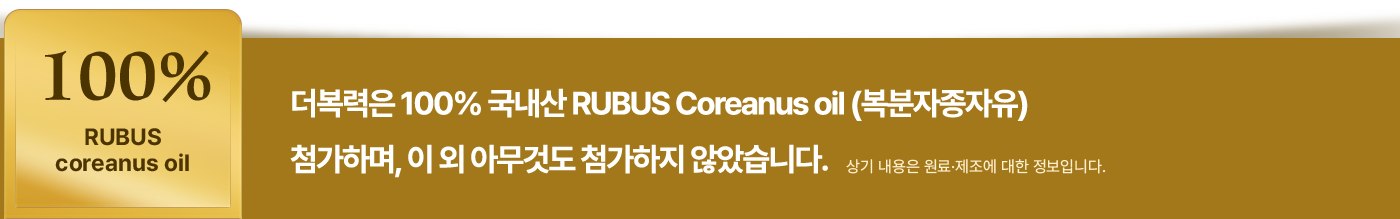
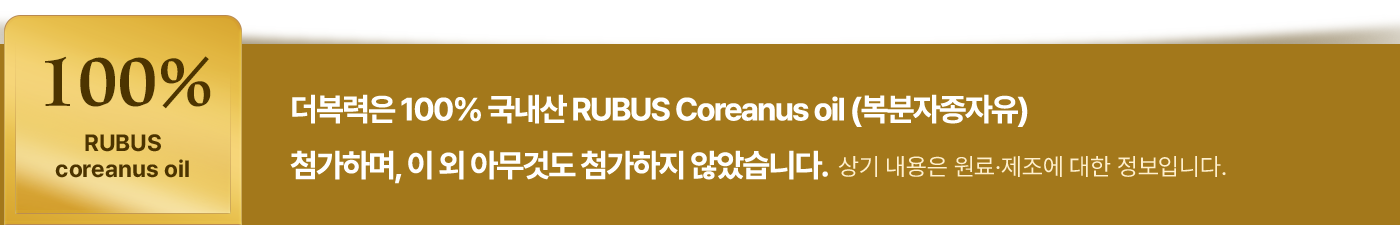
수정사항 반영

diff --git a/css/power.css b/css/power.css
@@ -97,6 +97,12 @@ em, span, i, label{font-size:inherit; color:inherit; font-weight:inherit; letter
   }
 }
 
+@media screen and (max-width:1140px) {
+  :root {
+    --flex-font-size: 18px;
+  }
+}
+
 @media screen and (max-width:768px) {
   :root {
     --max-width: 768px;
@@ -109,7 +115,7 @@ em, span, i, label{font-size:inherit; color:inherit; font-weight:inherit; letter
   :root {
     --px-large : 40px; 
     --side-padding : 20px;
-    --flex-font-size: 14px;
+    --flex-font-size: 13px;
   }
 }
 
@@ -124,8 +130,8 @@ em, span, i, label{font-size:inherit; color:inherit; font-weight:inherit; letter
 /* sec01 */
 .sec-cont01 {aspect-ratio: 1918 / 1207; background: url(../images/sec01_bg_start.jpg) no-repeat center bottom / cover; }
 .sec-cont01 .sec-inner {height: 100%; padding:calc(0.05 * 100%) 0;}
-.sec01-title {display: block; width: 100%; max-width: calc(100% * .3); margin:0 auto;}
-.sec01-text {opacity: 0; position: absolute; bottom:calc(100% * 0.08); left:50%; transform: translateX(-50%); display: block; width: 100%; max-width: calc(100% * .35);}
+.sec01-title {display: block; width: 33%; max-width: 453px; margin:0 auto;}
+.sec01-text {opacity: 0; position: absolute; bottom:calc(100% * 0.08); left:50%; transform: translateX(-50%); display: block; width: 37.5%; max-width: 526px;}
 .sec-cont01[data-scroll="in"] {animation: bgShow 1.5s forwards;}
 
 @keyframes bgShow {
@@ -147,14 +153,14 @@ em, span, i, label{font-size:inherit; color:inherit; font-weight:inherit; letter
 /* sec02 */
 .sec-cont02 {background: #060000 url(../images/sec02_bg.jpg) no-repeat center / cover;}
 .sec-cont02 .sec-inner {padding-bottom: calc(0.13 * 100%);}
-.sec02-title {display: block; width: 80%; max-width: 850px; margin:0 auto calc(100% * .11);}
-.sec02-list > li {position: relative; display: flex; align-items: center; justify-content: center; aspect-ratio: 1280 / 300;}
-.sec02-list > li img {position: absolute; transform: translateX(-70%); max-width: calc(100% * 0.36);}
-.sec02-list > li strong {color:#fff; font-size: var(--flex-font-size);}
-.sec02-list > li p {position: absolute; left: 55%; color:#fff; font-size: var(--flex-font-size); white-space: nowrap; font-weight: 300;}
-.sec02-list > li:nth-child(2) img {transform: translateX(70%);}
-.sec02-list > li:nth-child(2) p {left:45%; translate:-100%;}
-.sec02-list > li:nth-child(3) p {translate:0 25%}
+.sec02-title {display: block; width: 80%; max-width: 918px; margin:0 auto calc(100% * .11);}
+.sec02-list {width: 100%; margin:0 auto;}
+.sec02-list > li {position: relative; display: flex; align-items: center; justify-content: center; gap:5%; aspect-ratio: 1280 / 300;}
+.sec02-list > li img {max-width: calc(100% * 0.36);}
+.sec02-list > li strong {color:#fff; font-size: var(--flex-font-size); line-height: 1.4;}
+.sec02-list > li p {color:#fff; font-size: var(--flex-font-size); font-weight: 300; word-break: keep-all;}
+.sec02-list > li:nth-child(2) p {text-align: right;}
+.sec02-text {display: flex; gap:10px}
 
 
 .sec-point {display: block; width: 27%; max-width: 287px; margin:0 auto calc(100% * .04)}
@@ -162,17 +168,20 @@ em, span, i, label{font-size:inherit; color:inherit; font-weight:inherit; letter
 /* sec03 */ 
 .sec-cont03 {background: #6c0c15;}
 .sec03-title {display: block; width: 55%; max-width: 1262px; margin:0 auto;}
+.sec03-img {width: 100%;}
 
 /* sec04 */
 .sec-cont04 {position: relative; background: url(../images/sec04_bg.jpg) no-repeat center 0 / cover;}
-.sec-cont04::before {position: absolute; bottom:0; content: ''; display: block; width: 100%; height:181px; background-color: #a3781b ;}
+.sec-cont04::before {position: absolute; bottom:0; content: ''; display: block; width: 100%; height:178px; background-color: #a3781b ;}
 .sec-cont04 .sec-inner {height: 100%; padding:calc(100% * .07) 0 0;}
 .sec04-title {display: block; width: 55%; max-width: 725px; margin:0 auto calc(100% * 0.03);}
 .sec04-img {display: block; width: 100%; max-width: 1120px; margin:0 auto; border-radius: 10px;}
 .sec04-bottom {position: relative; left:50%; translate:-50%; display: block; width: 100%; max-width: 1960px; height: 219px; margin-top:calc(100% * -.05); background: url(../images/sec04_bottom.png) no-repeat center / cover;}
-@media screen and (max-width:1400px) {
-  .sec-cont04 {background: url(../images/sec04_bg_mo.jpg) no-repeat center / cover;}
+@media screen and (max-width:1959px) {
   .sec-cont04::before {display: none;}
+}
+@media screen and (max-width:1400px) {
+  .sec-cont04 {background: url(../images/sec04_bg_mo.jpg) no-repeat center / cover;}  
   .sec04-img {max-width: 80%;}
   .sec04-bottom {aspect-ratio: 1400 / 219; height: auto; background: url(../images/sec04_bottom_mo.png) no-repeat center / cover;}
 }
@@ -184,7 +193,7 @@ em, span, i, label{font-size:inherit; color:inherit; font-weight:inherit; letter
 .sec05-imgs {display: flex; width: 90%; max-width: 990px; margin:0 auto calc(100% * .08);}
 .sec05-imgs > img {display: block; width: 41%; margin:0 -3.5%;}
 .sec05-text {display: block; width: 65%; max-width: 531px; margin:0 auto calc(100% * .06);}
-.sec05-bottom {display: block; width: 100%; max-width: 827px; margin:0 auto;}
+.sec05-bottom {display: block; width: 100%; max-width: 927px; margin:0 auto;}
 @media screen and (max-width:1400px) {
   .sec-cont05 {background: #000000 url(../images/sec05_bg_mo.jpg) no-repeat center / cover;}
 }
@@ -201,7 +210,7 @@ em, span, i, label{font-size:inherit; color:inherit; font-weight:inherit; letter
 .sec06-texts .txt-4 {bottom:-15%; left:0;}
 .sec06-texts .txt-5 {bottom:-15%; right:0;}
 .sec06_bottom {display: flex; align-items: center; justify-content: center; height:calc(.09 * 100%); background-color: #b69041;}
-.sec06_bottom .sec06-text {display: inline-block; width: 40%; max-width: 400px;}
+.sec06_bottom .sec06-text {display: inline-block; width: 90%; max-width: 1148px;}
 @media screen and (max-width:1400px) {
   .sec-cont06 {aspect-ratio: 1400 / 1276; background: url(../images/sec06_bg_mo.jpg) no-repeat center / cover;}  
   .sec06-texts > p {font-size: calc(100vw * .025);}

diff --git a/html/power.html b/html/power.html
@@ -33,29 +33,35 @@
     <section class="sec-cont01" data-scroll="in">
       <div class="sec-inner">
         <h1 class="ani-up" data-scroll="in"><img src="../images/sec01_title.png" class="sec01-title" alt="건강한 혈류를 위한 일상관리 더복력"></h1>
-        <img src="../images/sec01_subtitle.png" class="sec01-text ani-opacity delay-1" alt="RETURN POWER 무한히 되돌아가는 건강, 삶의 순환을 담다." data-scroll="in">
+        <img src="../images/sec01_subtitle.png" class="sec01-text ani-opacity delay-1" alt="RETURN POWER 무한히 되돌아가는 맑음, 삶의 순환을 담다." data-scroll="in">
       </div>
     </section>
 
     <!-- sec02 -->
     <section class="sec-cont02">
       <div class="sec-inner">
-        <h2><img src="../images/sec02_title.png" class="sec02-title ani-up" data-scroll="in" alt="예전 같지 않은 활력, 공감하시나요?"></h2>
+        <h2><img src="../images/sec02_title_n.png" class="sec02-title ani-up" data-scroll="in" alt="예전 같지 않은 건강, 되돌리고 싶나요?"></h2>
         <ul class="sec02-list">
           <li>
-            <img src="../images/sec02_img_1.png" alt="무거운 하루" class="ani-left" data-scroll="in">
-            <strong class="ani-up delay-1" data-scroll="in">01</strong>
-            <p class="ani-up delay-1" data-scroll="in">손발이 차고 무거운 하루</p>
+            <img src="../images/sec02_img_1.png" alt="아침이 무겁고 머리가 잘 깨지지 않는 하루" class="ani-left" data-scroll="in">
+            <div class="sec02-text">
+              <strong class="ani-up delay-1" data-scroll="in">01</strong>
+              <p class="ani-up delay-1" data-scroll="in">아침이 무겁고 머리가 잘 깨지지 않는 하루</p>
+            </div>
           </li>
-          <li>     
-            <img src="../images/sec02_img_2.png" alt="쉽게 피로가 쌓이는 몸" class="ani-right" data-scroll="in">       
-            <strong class="ani-up delay-1" data-scroll="in">02</strong>
-            <p class="ani-up delay-1" data-scroll="in">쉽게 피로가 쌓이는 몸</p>            
+          <li>
+            <div class="sec02-text">
+              <p class="ani-up delay-1" data-scroll="in">쉽게 피로가 쌓이고 집중이 흐려지는 시간들</p>          
+              <strong class="ani-up delay-1" data-scroll="in">02</strong>           
+            </div>                   
+            <img src="../images/sec02_img_2.png" alt="쉽게 피로가 쌓이고 집중이 흐려지는 시간들" class="ani-right" data-scroll="in">       
           </li>
           <li>
             <img src="../images/sec02_img_3.png" alt="되찾고 싶은 일상의 활력, 오늘부터 관리하세요" class="ani-left" data-scroll="in">
-            <strong class="ani-up delay-1" data-scroll="in">03</strong>
-            <p class="ani-up delay-1" data-scroll="in">되찾고 싶은 일상의 활력,<br> 오늘부터 관리하세요</p>
+            <div class="sec02-text">
+              <strong class="ani-up delay-1" data-scroll="in">03</strong>
+              <p class="ani-up delay-1" data-scroll="in">되찾고 싶은 맑은 활력,<br> 오늘부터 더복력으로 관리하세요</p>
+            </div>            
           </li>
         </ul>
       </div>
@@ -67,7 +73,7 @@
         <h2 class="ani-up" data-scroll="in">
           <img src="../images/sec03_title.png" class="sec03-title" alt="연구와 특허가 뒷답침하는 순환 관리">
         </h2>
-        <img src="../images/sec03_img.jpg" class="sec03-img ani-center" alt=""  data-scroll="in">
+        <img src="../images/sec03_img.png" class="sec03-img ani-center" alt=""  data-scroll="in">
         <div class="blind">
           검증된 연구와 기술이 만든 프리미엄 밸런스 케어, 좋은 건 알지만 챙기기 번거로웠던 복분자 이제 하루 2캡술로 간편하게!
         </div>
